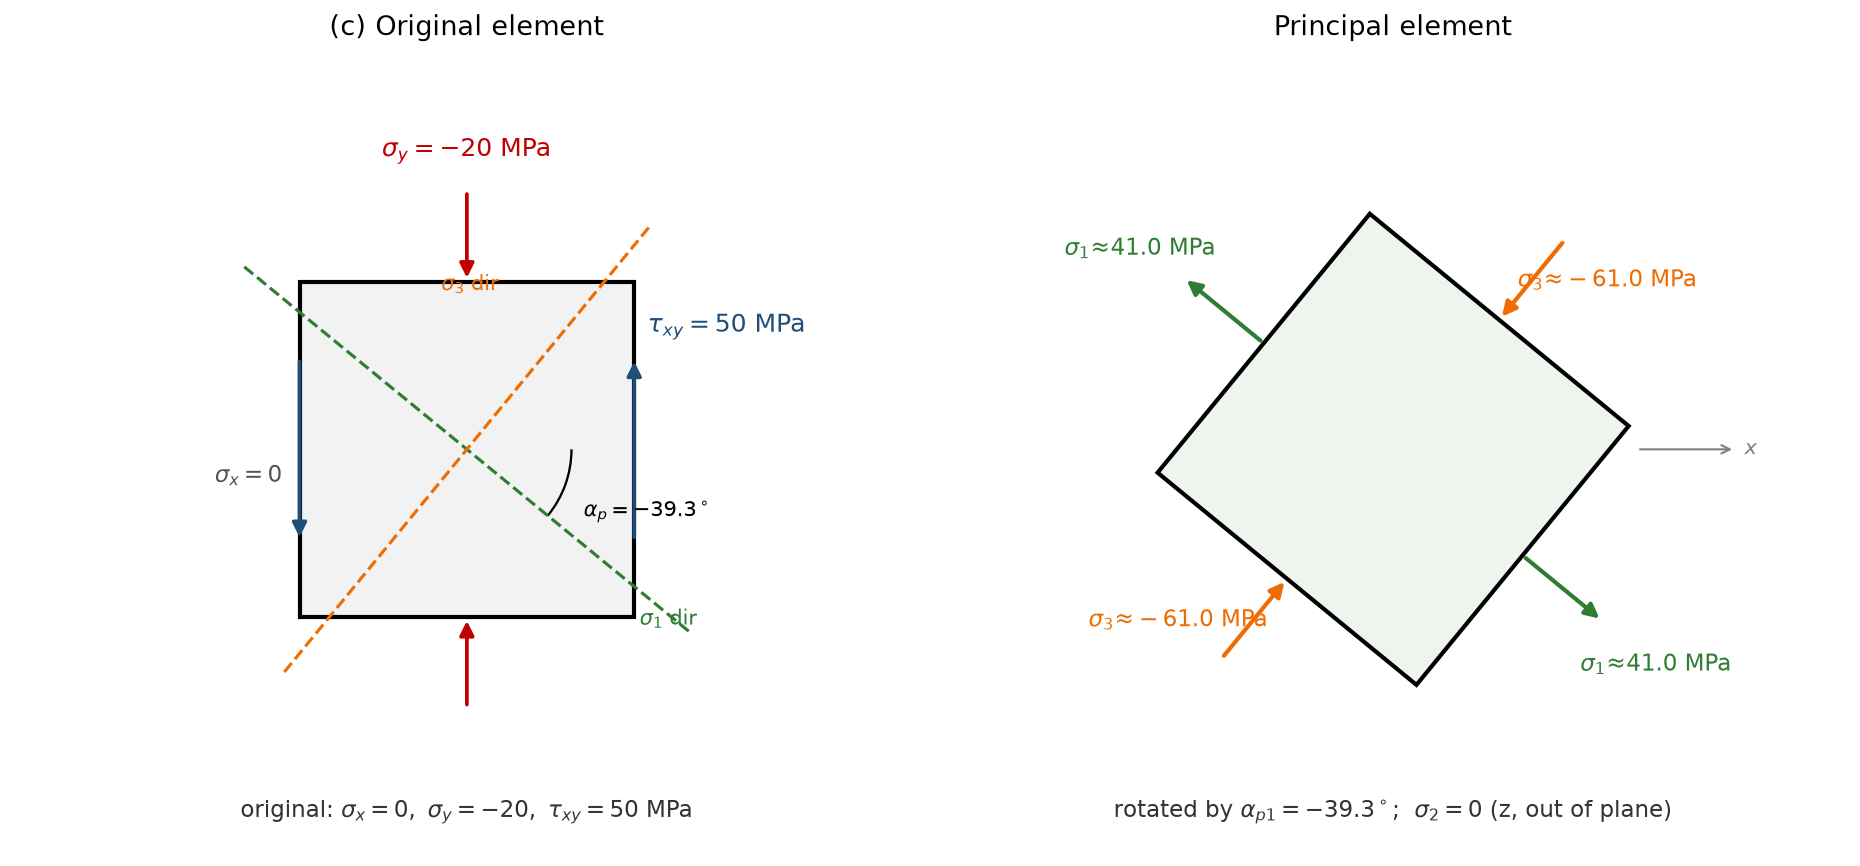
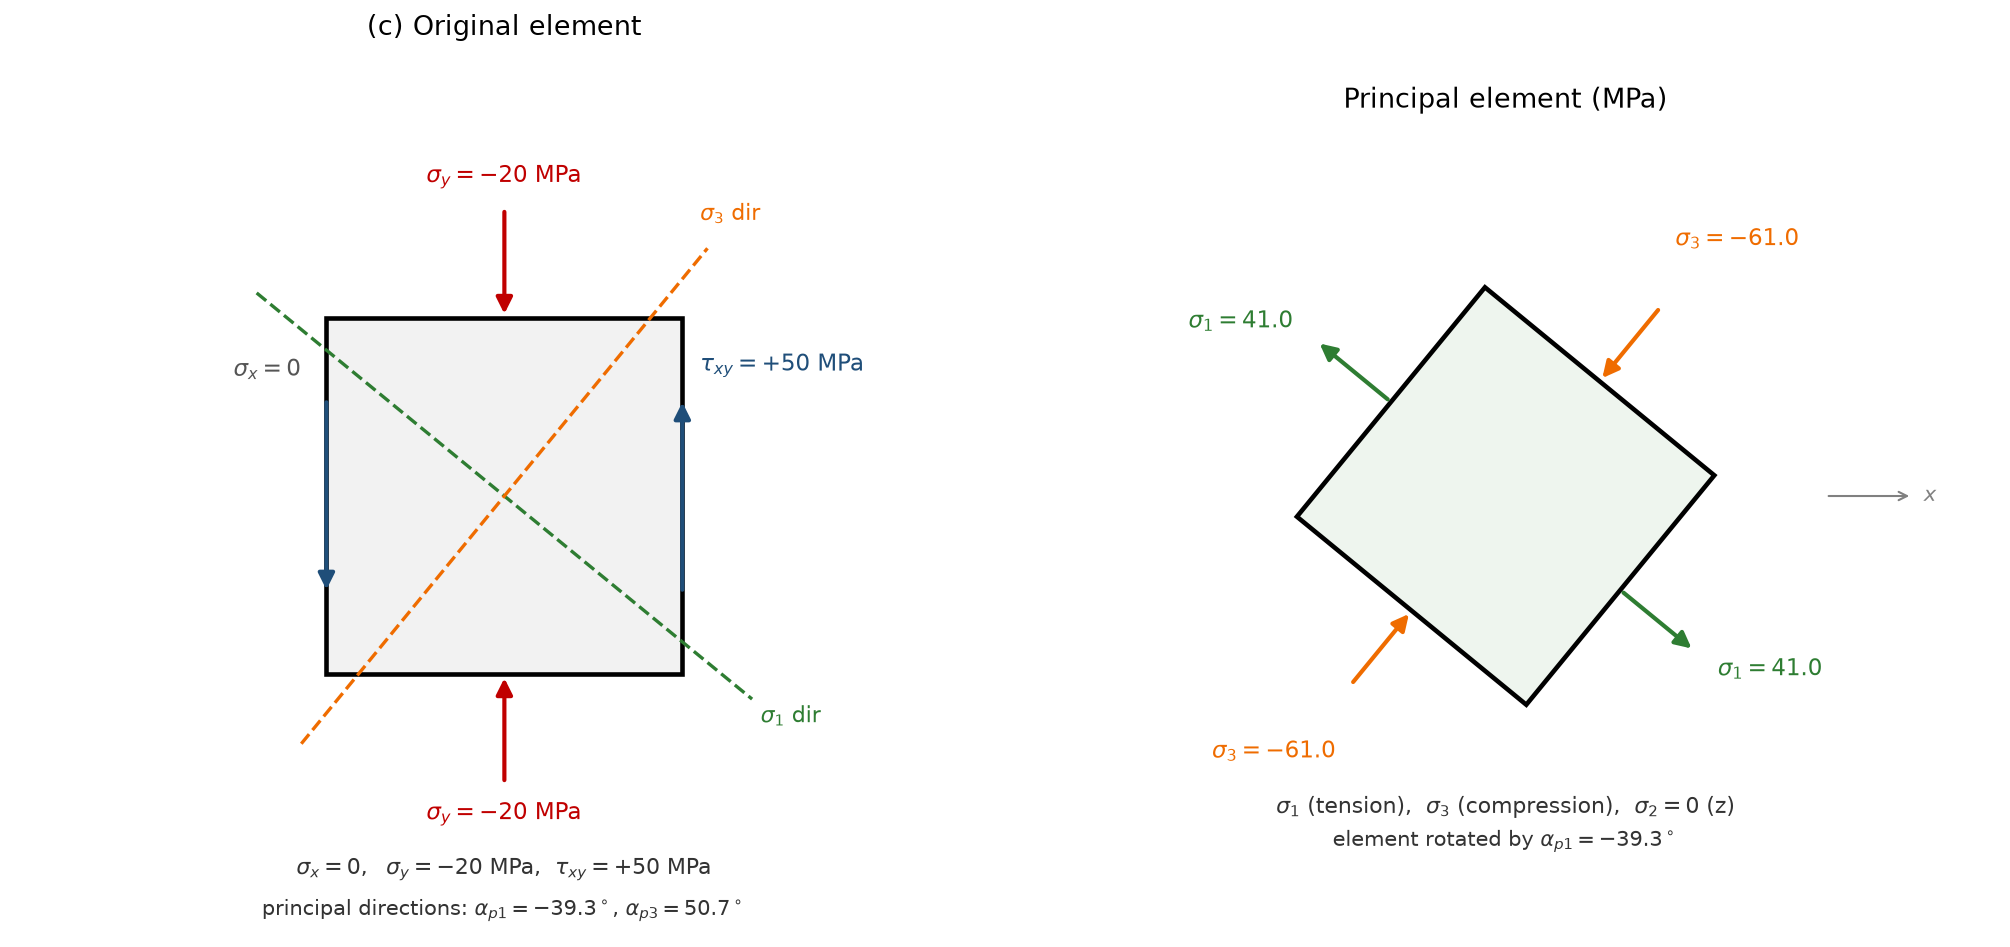
feat: update workspace

diff --git a/principal_element_9_2c.py b/principal_element_9_2c.py
@@ -1,13 +1,13 @@
 """
-9.2(c) 主单元体绘制
+9.2(c) 主单元体绘制（清理版：标注全部移到图形外侧，避免重叠）
 原始应力: sigma_x = 0, sigma_y = -20 MPa, tau_xy = +50 MPa
 主应力 : sigma_1 ≈ 41.0, sigma_2 = 0, sigma_3 ≈ -61.0 MPa
-主方向 : alpha_p1 ≈ -39.34° (自 x 轴顺时针)
+主方向 : alpha_p1 ≈ -39.3°（sigma_1 方向，自 x 轴顺时针）
 """
 
 import numpy as np
 import matplotlib.pyplot as plt
-from matplotlib.patches import Polygon, Arc
+from matplotlib.patches import Polygon
 
 plt.rcParams['font.sans-serif'] = ['DejaVu Sans']
 plt.rcParams['axes.unicode_minus'] = False
@@ -19,19 +19,23 @@ c = (sx + sy) / 2.0
 R = np.hypot((sx - sy) / 2.0, txy)
 s1, s3 = c + R, c - R
 ap = 0.5 * np.degrees(np.arctan2(-2.0 * txy, sx - sy))   # sigma_1 direction
+ap3 = ap + 90.0
 
 print(f"center = {c:.2f}, R = {R:.2f}")
-print(f"sigma_1 = {s1:.2f}, sigma_3 = {s3:.2f}, alpha_p1 = {ap:.2f} deg")
+print(f"sigma_1 = {s1:.2f}, sigma_3 = {s3:.2f}")
+print(f"alpha_p1 = {ap:.2f} deg, alpha_p3 = {ap3:.2f} deg")
 
-fig, (axL, axR) = plt.subplots(1, 2, figsize=(12.5, 6.4))
-for ax in (axL, axR):
+fig, (axL, axR) = plt.subplots(1, 2, figsize=(13.5, 6.6))
+for ax, xl in ((axL, 2.75), (axR, 3.30)):
     ax.set_aspect('equal')
     ax.axis('off')
-    ax.set_xlim(-2.7, 2.7)
-    ax.set_ylim(-2.4, 2.4)
+    ax.set_xlim(-xl, xl)
+    ax.set_ylim(-2.45, 2.45)
+
+WB = dict(boxstyle='round,pad=0.18', fc='white', ec='none', alpha=0.92)
 
 
-def arr(ax, p0, p1, color='k', lw=1.8, ms=14):
+def arr(ax, p0, p1, color='k', lw=2.0, ms=16):
     ax.annotate('', xy=p1, xytext=p0,
                 arrowprops=dict(arrowstyle='-|>', color=color, lw=lw,
                                 mutation_scale=ms))
@@ -39,85 +43,89 @@ def arr(ax, p0, p1, color='k', lw=1.8, ms=14):
 # ======================= LEFT: original element =======================
 a = 1.0
 axL.add_patch(Polygon([(-a, -a), (a, -a), (a, a), (-a, a)], closed=True,
-                      facecolor='#f2f2f2', edgecolor='k', lw=2))
+                      facecolor='#f2f2f2', edgecolor='k', lw=2.2))
 
-# tau_xy: right face up, left face down
-arr(axL, (a, -0.55), (a, 0.55), color='#1f4e79')
-arr(axL, (-a, 0.55), (-a, -0.55), color='#1f4e79')
-axL.text(a + 0.08, 0.70, r'$\tau_{xy}=50$ MPa', color='#1f4e79', fontsize=12)
+# sigma_y = -20 MPa（压应力，箭头指向面内）
+arr(axL, (0, 1.62), (0, 1.0), '#c00000')
+arr(axL, (0, -1.62), (0, -1.0), '#c00000')
+axL.text(0, 1.72, r'$\sigma_y=-20$ MPa', color='#c00000',
+         ha='center', va='bottom', fontsize=11)
+axL.text(0, -1.72, r'$\sigma_y=-20$ MPa', color='#c00000',
+         ha='center', va='top', fontsize=11)
 
-# sigma_y compression (arrows push into faces)
-arr(axL, (0, a + 0.55), (0, a), color='#c00000')
-arr(axL, (0, -a - 0.55), (0, -a), color='#c00000')
-axL.text(0.0, a + 0.75, r'$\sigma_y=-20$ MPa', color='#c00000',
-         fontsize=12, ha='center')
+# tau_xy = +50 MPa（右面向上、左面向下）
+arr(axL, (a, -0.55), (a, 0.55), '#1f4e79')
+arr(axL, (-a, 0.55), (-a, -0.55), '#1f4e79')
+axL.text(1.10, 0.66, r'$\tau_{xy}=+50$ MPa', color='#1f4e79',
+         ha='left', va='bottom', fontsize=11)
 
-# sigma_x = 0
-axL.text(-a - 0.10, -0.20, r'$\sigma_x=0$', fontsize=11, ha='right',
-         color='#555555')
+# sigma_x = 0（左右竖直面无水平正应力）
+axL.text(-1.14, 0.64, r'$\sigma_x=0$', color='#555555',
+         ha='right', va='bottom', fontsize=11, bbox=WB)
 
-# principal directions (dashed)
+# 主方向（虚线）
 th = np.radians(ap)
-L = 1.72
-axL.plot([-L * np.cos(th), L * np.cos(th)],
-         [-L * np.sin(th), L * np.sin(th)], '--', color='#2e7d32', lw=1.5)
 th3 = th + np.pi / 2
+L = 1.80
+axL.plot([-L * np.cos(th), L * np.cos(th)],
+         [-L * np.sin(th), L * np.sin(th)], '--', color='#2e7d32', lw=1.6)
 axL.plot([-L * np.cos(th3), L * np.cos(th3)],
-         [-L * np.sin(th3), L * np.sin(th3)], '--', color='#ef6c00', lw=1.5)
+         [-L * np.sin(th3), L * np.sin(th3)], '--', color='#ef6c00', lw=1.6)
 
-# angle arc from +x to sigma_1 direction
-axL.add_patch(Arc((0, 0), 1.25, 1.25, angle=0, theta1=ap, theta2=0,
-                  color='k', lw=1.1))
-axL.text(0.72 * np.cos(np.radians(ap / 2)) + 0.02,
-         0.72 * np.sin(np.radians(ap / 2)) - 0.16,
-         r'$\alpha_{p}=-39.3^\circ$', fontsize=10)
+axL.text(1.44, -1.24, r'$\sigma_1$ dir', color='#2e7d32',
+         ha='left', va='center', fontsize=10.5, bbox=WB)
+axL.text(1.10, 1.52, r'$\sigma_3$ dir', color='#ef6c00',
+         ha='left', va='bottom', fontsize=10.5, bbox=WB)
 
-axL.text(1.18 * np.cos(th) + 0.12, 1.18 * np.sin(th) - 0.30,
-         r'$\sigma_1$ dir', color='#2e7d32', fontsize=10)
-axL.text(1.10 * np.cos(th3) - 0.85, 1.10 * np.sin(th3) + 0.10,
-         r'$\sigma_3$ dir', color='#ef6c00', fontsize=10)
-
-axL.text(0, -2.20, r'original: $\sigma_x=0,\ \sigma_y=-20,\ \tau_{xy}=50$ MPa',
-         fontsize=11, ha='center', color='#333333')
-axL.set_title('(c) Original element', fontsize=13)
+axL.text(0, -2.10,
+         r'$\sigma_x=0,\ \ \sigma_y=-20$ MPa, $\ \tau_{xy}=+50$ MPa',
+         ha='center', va='center', fontsize=10.5, color='#333333')
+axL.text(0, -2.33,
+         r'principal directions: $\alpha_{p1}=-39.3^\circ$, $\alpha_{p3}=50.7^\circ$',
+         ha='center', va='center', fontsize=10, color='#333333')
+axL.set_title('(c) Original element', fontsize=13, pad=12)
 
 # ======================= RIGHT: principal element =======================
-e1 = np.array([np.cos(th), np.sin(th)])      # sigma_1 axis
-e2 = np.array([-np.sin(th), np.cos(th)])     # sigma_3 axis
+e1 = np.array([np.cos(th), np.sin(th)])      # sigma_1 轴
+e2 = np.array([-np.sin(th), np.cos(th)])     # sigma_3 轴
 
 axR.add_patch(Polygon([a * e1 + a * e2, -a * e1 + a * e2,
                        -a * e1 - a * e2, a * e1 - a * e2], closed=True,
-                      facecolor='#eef5ee', edgecolor='k', lw=2))
+                      facecolor='#eef5ee', edgecolor='k', lw=2.2))
 
-# sigma_1 tension: arrows point outward along +-e1
-arr(axR, a * e1, (a + 0.62) * e1, color='#2e7d32', lw=2)
-arr(axR, -a * e1, -(a + 0.62) * e1, color='#2e7d32', lw=2)
-# sigma_3 compression: arrows point inward along +-e2
-arr(axR, (a + 0.62) * e2, a * e2, color='#ef6c00', lw=2)
-arr(axR, -(a + 0.62) * e2, -a * e2, color='#ef6c00', lw=2)
+# sigma_1 拉应力：箭头沿 +-e1 向外
+arr(axR, a * e1, 1.65 * e1, '#2e7d32')
+arr(axR, -a * e1, -1.65 * e1, '#2e7d32')
+# sigma_3 压应力：箭头沿 +-e2 向内
+arr(axR, 1.65 * e2, a * e2, '#ef6c00')
+arr(axR, -1.65 * e2, -a * e2, '#ef6c00')
 
-# labels near arrow tips
-axR.text(1.42 * e1[0] + 0.02, 1.42 * e1[1] - 0.32,
-         r'$\sigma_1\!\approx\!41.0$ MPa', color='#2e7d32', fontsize=11,
-         ha='left', va='top')
-axR.text(-1.30 * e1[0] - 0.05, -1.30 * e1[1] + 0.30,
-         r'$\sigma_1\!\approx\!41.0$ MPa', color='#2e7d32', fontsize=11,
-         ha='right', va='bottom')
-axR.text(1.08 * e2[0] + 0.06, 1.08 * e2[1] + 0.10,
-         r'$\sigma_3\!\approx\!-61.0$ MPa', color='#ef6c00', fontsize=11,
-         ha='left', va='bottom')
-axR.text(-1.08 * e2[0] - 0.06, -1.08 * e2[1] - 0.12,
-         r'$\sigma_3\!\approx\!-61.0$ MPa', color='#ef6c00', fontsize=11,
-         ha='right', va='top')
+# 标注一律放在箭杆延长线之外
+p = 1.85 * e1
+axR.text(p[0], p[1], r'$\sigma_1=41.0$', color='#2e7d32',
+         ha='left', va='center', fontsize=11, bbox=WB)
+p = -1.85 * e1
+axR.text(p[0], p[1], r'$\sigma_1=41.0$', color='#2e7d32',
+         ha='right', va='center', fontsize=11, bbox=WB)
+p = 2.00 * e2 - 0.16 * e1
+axR.text(p[0], p[1], r'$\sigma_3=-61.0$', color='#ef6c00',
+         ha='left', va='bottom', fontsize=11, bbox=WB)
+p = -2.00 * e2 + 0.16 * e1
+axR.text(p[0], p[1], r'$\sigma_3=-61.0$', color='#ef6c00',
+         ha='right', va='top', fontsize=11, bbox=WB)
 
-# small x-axis indicator + rotation note
-axR.annotate('', xy=(2.05, 0.0), xytext=(1.45, 0.0),
+# x 轴指示
+axR.annotate('', xy=(2.75, 0.0), xytext=(2.15, 0.0),
              arrowprops=dict(arrowstyle='->', lw=1.0, color='gray'))
-axR.text(2.10, 0.0, r'$x$', fontsize=10, va='center', color='gray')
+axR.text(2.82, 0.0, r'$x$', fontsize=10, va='center', color='gray')
 
-axR.text(0, -2.20, r'rotated by $\alpha_{p1}=-39.3^\circ$;  $\sigma_2=0$ (z, out of plane)',
-         fontsize=11, ha='center', color='#333333')
-axR.set_title('Principal element', fontsize=13)
+axR.text(0, -2.10,
+         r'$\sigma_1$ (tension), $\ \sigma_3$ (compression), $\ \sigma_2=0$ (z)',
+         ha='center', va='center', fontsize=10.5, color='#333333')
+axR.text(0, -2.33,
+         r'element rotated by $\alpha_{p1}=-39.3^\circ$',
+         ha='center', va='center', fontsize=10, color='#333333')
+axR.set_title('Principal element (MPa)', fontsize=13, pad=12)
 
 plt.tight_layout()
 plt.savefig('/workspace/principal_element_9_2c.png', dpi=150, bbox_inches='tight')
